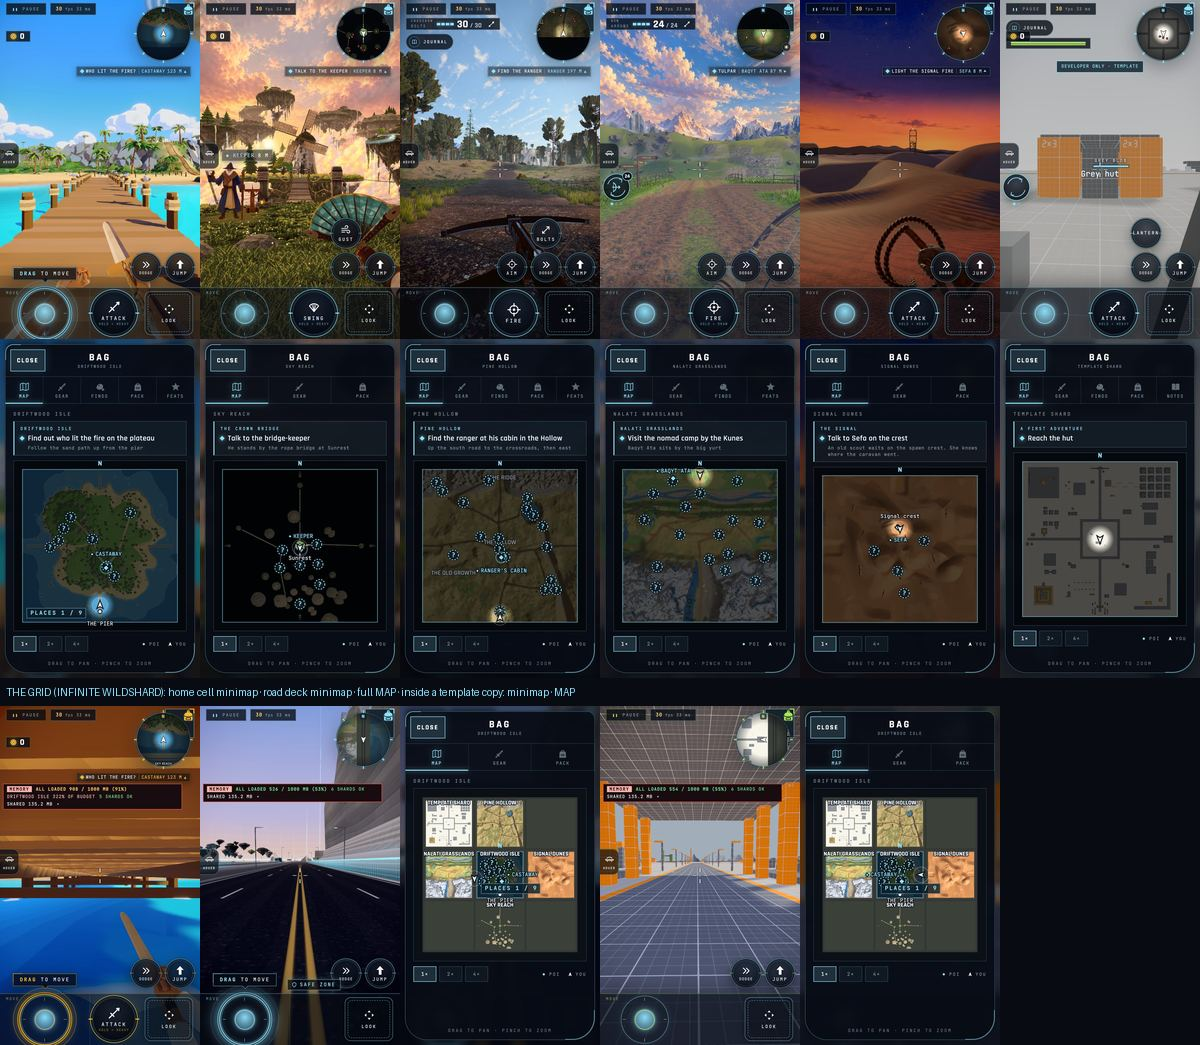
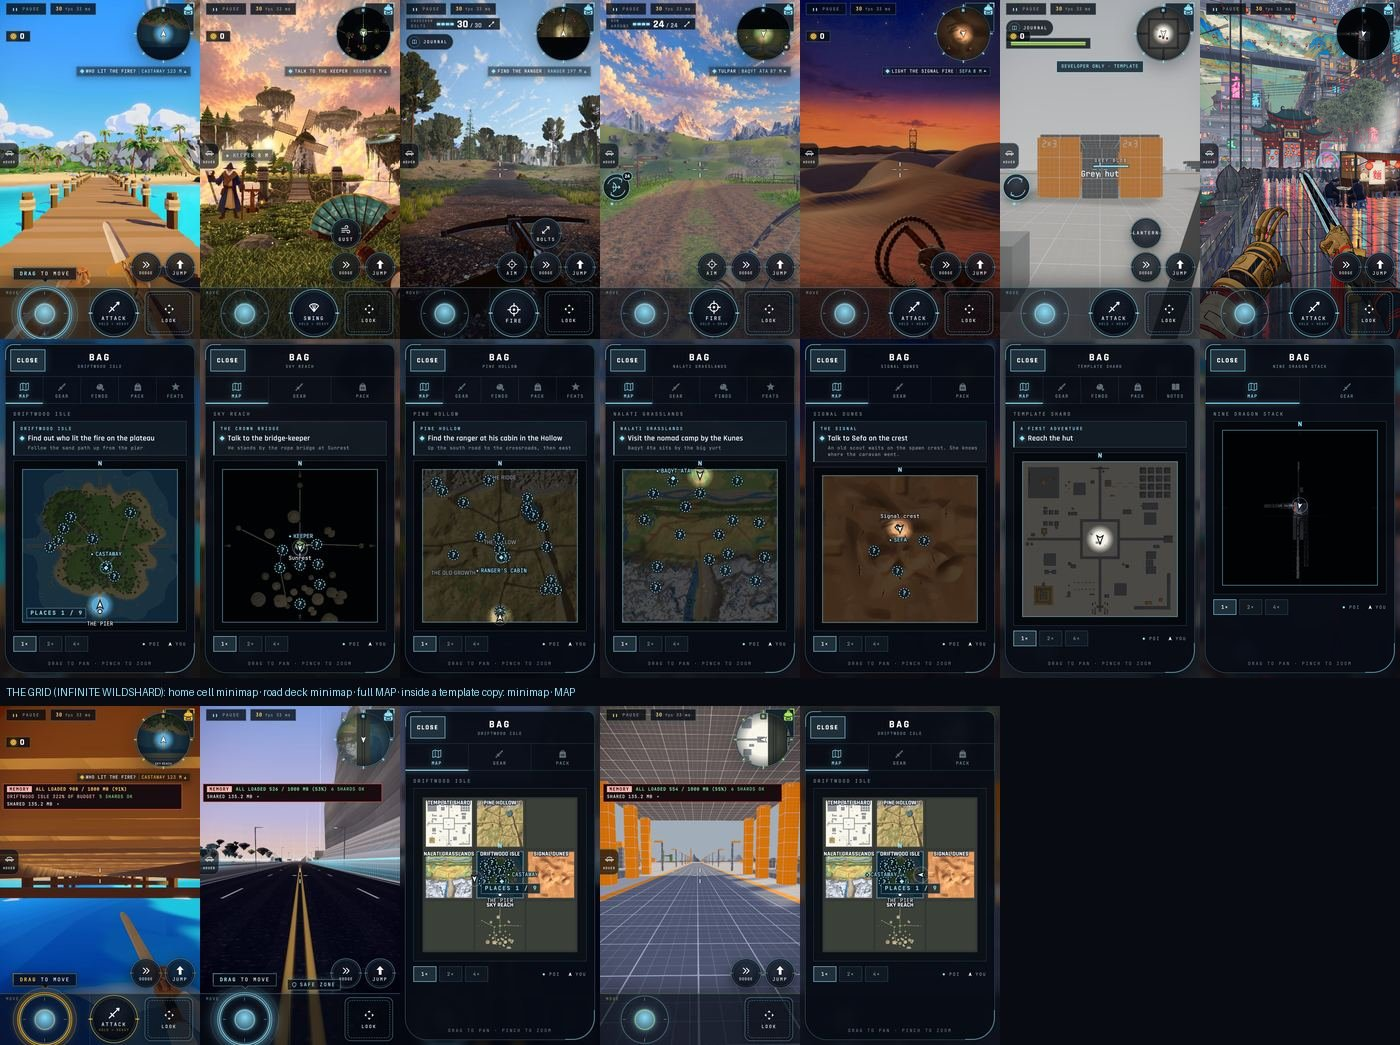
SHARD-PLATFORM G252: Nine Dragon's receipts — the minimap and Bag ▸ MAP on an iPhone 16 Pro in portrait (Developer on, 0 page errors), its column on the contact sheet, the README section (E435)
Plan-State: unchanged

Claude-Session: https://claude.ai/code/session_01AihbFRc7pfU3hiUoEFHg1n

diff --git a/progress/shard-platform/g252/README.md b/progress/shard-platform/g252/README.md
@@ -22,9 +22,9 @@ Jake picked **B, stylized** (art/maps/round-1-baked-map-style/). Commit `edad546
 | Nalati | 131 KB |
 | Signal Dunes | 24 KB |
 | template | 26 KB |
-| Nine Dragon | not rebaked (world WIP in the shared tree); still the placeholder |
+| Nine Dragon | 13 KB (`f9a2e7493`, below) |
 
-`contact-sheet.jpg` shows each shard standalone on an iPhone 16 Pro in portrait (phone tier, muted, Developer on): the HUD
+`contact-sheet.jpg` (Nine Dragon the seventh column, top right) shows each shard standalone on an iPhone 16 Pro in portrait (phone tier, muted, Developer on): the HUD
 minimap on top, Bag ▸ MAP below. The full frames are the `<slug>-minimap.jpg` and `<slug>-mapscreen.jpg` files. The real
 fog of war still dims unexplored ground. The bottom row is the grid (G252b, below).
 
@@ -55,3 +55,19 @@ a clean export, so the stamps hash HEAD's world and not the shared tree's WIP.
 
 Reproduce: `scripts/serve-build.sh --rev <sha>` from a scratch dir, then
 `scripts/browser-lane.sh node progress/shard-platform/g252/capture-b.mjs <url> <out dir> far-reach,_template grid`.
+
+## Nine Dragon (`f9a2e7493`)
+
+The g252 lane skipped Nine Dragon (world WIP in the shared tree); it is baked from a clean export of HEAD. From straight up
+its towers and the bridge blocks (136–175 m) roof over the street and frame the square, so `look/map.json` sets
+**`clipAbove: 153`** (new and generic in `scripts/map-hash.mjs` / `scripts/bake-maps.mjs`: the bake camera's near plane;
+153 m is just over the deck at Y0 + 24) and the cut towers drop out. What shows is the square, the stair-street west, the
+street south, the north lane and the Well's galleries east. The style is `ground` with a colour table clustered from its
+colour pass (cool granite floors, the plaza's cinnabar neon, level changes inked by slope, the Well's drop dark with a blue
+lip) and a **transparent void** (new for `ground` in `scripts/map-stylize.py`: undrawn pixels see-through with a cast-shadow
+veil and a rim; no other shard's style names one, so their output is unchanged), as Sky Reach's. 13 KB.
+`nine-dragon-stack-minimap.jpg`, `nine-dragon-stack-mapscreen.jpg` (iPhone 16 Pro portrait, phone tier, muted, Developer on,
+0 page errors; the fog of war dims the unexplored floors).
+
+Reproduce: `scripts/serve-build.sh --rev f9a2e7493`, then
+`scripts/browser-lane.sh node progress/shard-platform/g252/capture.mjs <url> <out dir> nine-dragon-stack`.
